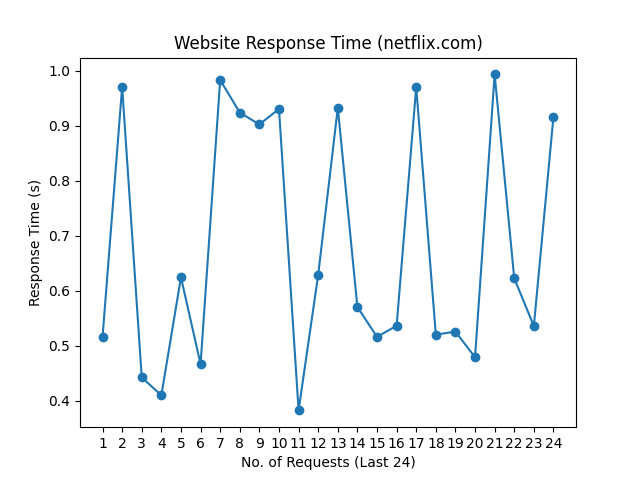
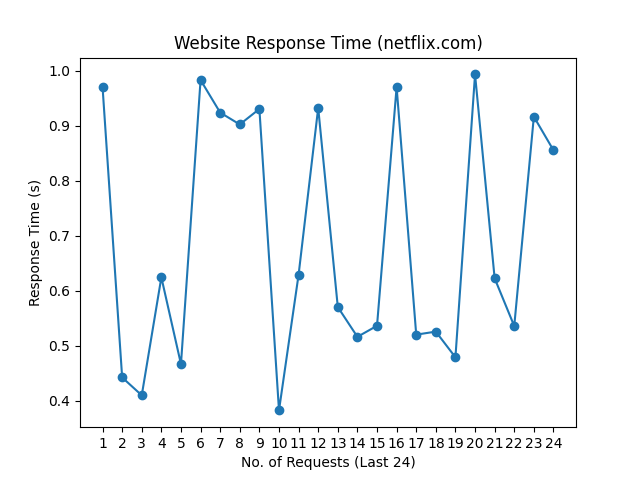
update README.md, history and graph

Changed region(s): [[0.1562, 0.125, 0.875, 0.875]]

diff --git a/README.md b/README.md
@@ -1,10 +1,10 @@
 # Web Monitoring
 
-Last Checked: 02/08/2024 08:17
+Last Checked: 03/08/2024 08:17
 
 | Website | Response Time (s) | Status | Avg Uptime (%) |
 |---------|-------------------|--------|----------------|
 | www.thiswebsiteisdown.net | 0 <br> <img src="graph/thiswebsiteisdown.net.png" alt="Graph" width="200" height="200">  | ❌ Down | 0.00 |
-| www.netflix.com | 0.916910 <br> <img src="graph/netflix.com.png" alt="Graph" width="200" height="200">  | ✅ Up | 100.00 |
-| www.google.com | 0.070084 <br> <img src="graph/google.com.png" alt="Graph" width="200" height="200">  | ✅ Up | 100.00 |
-| www.facebook.com | 0.715556 <br> <img src="graph/facebook.com.png" alt="Graph" width="200" height="200">  | ✅ Up | 100.00 |
+| www.netflix.com | 0.855883 <br> <img src="graph/netflix.com.png" alt="Graph" width="200" height="200">  | ✅ Up | 100.00 |
+| www.google.com | 0.076856 <br> <img src="graph/google.com.png" alt="Graph" width="200" height="200">  | ✅ Up | 100.00 |
+| www.facebook.com | 0.260859 <br> <img src="graph/facebook.com.png" alt="Graph" width="200" height="200">  | ✅ Up | 100.00 |
